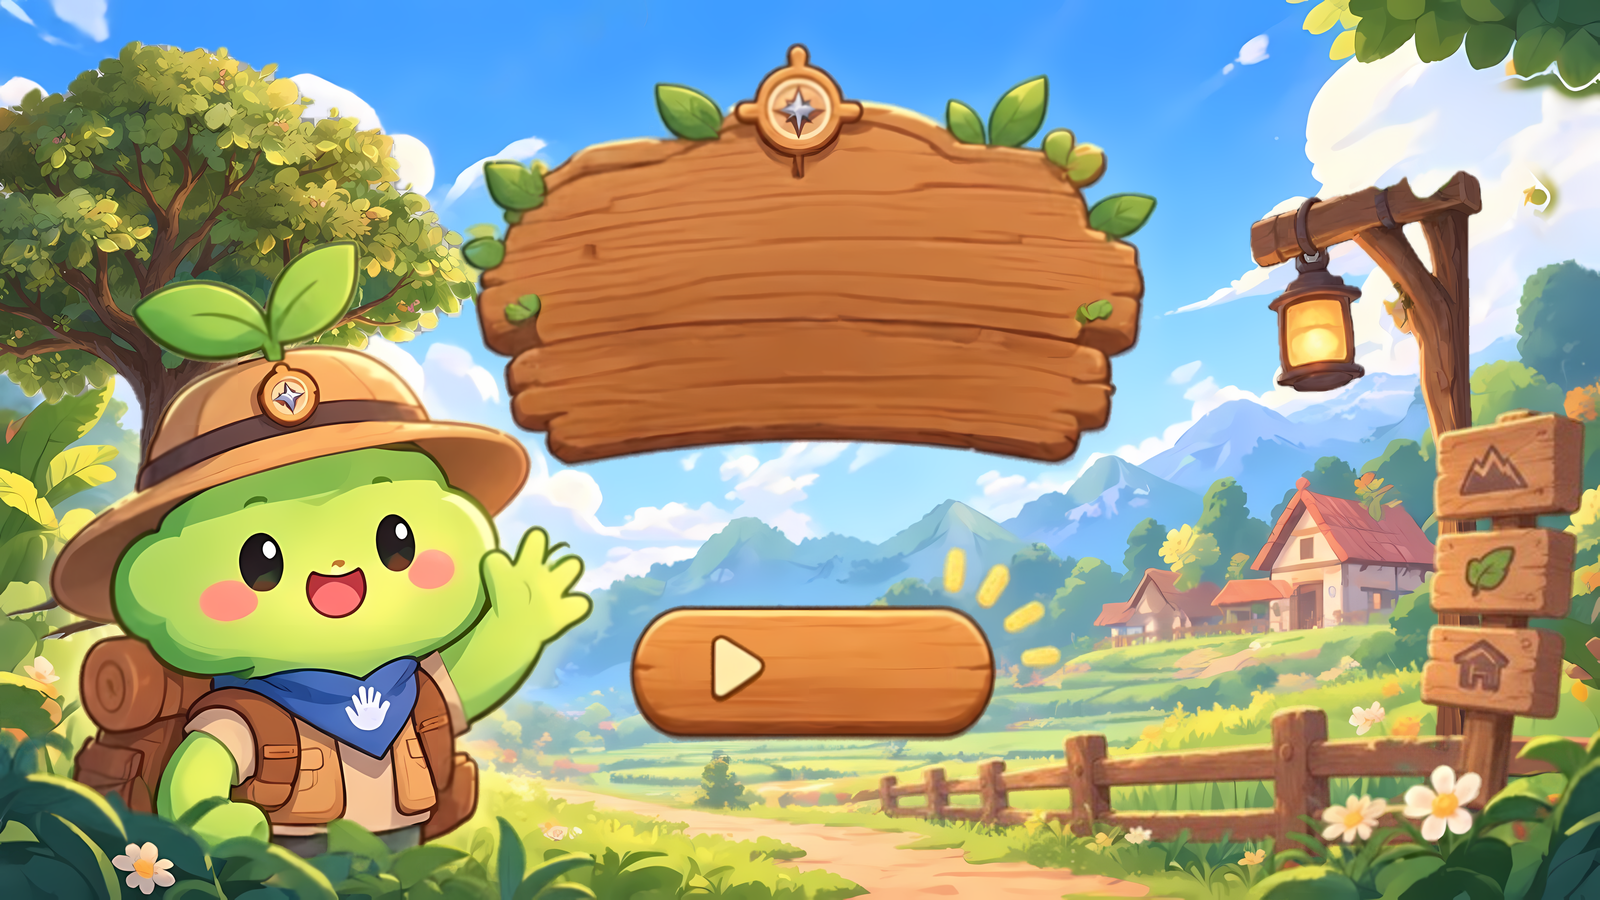
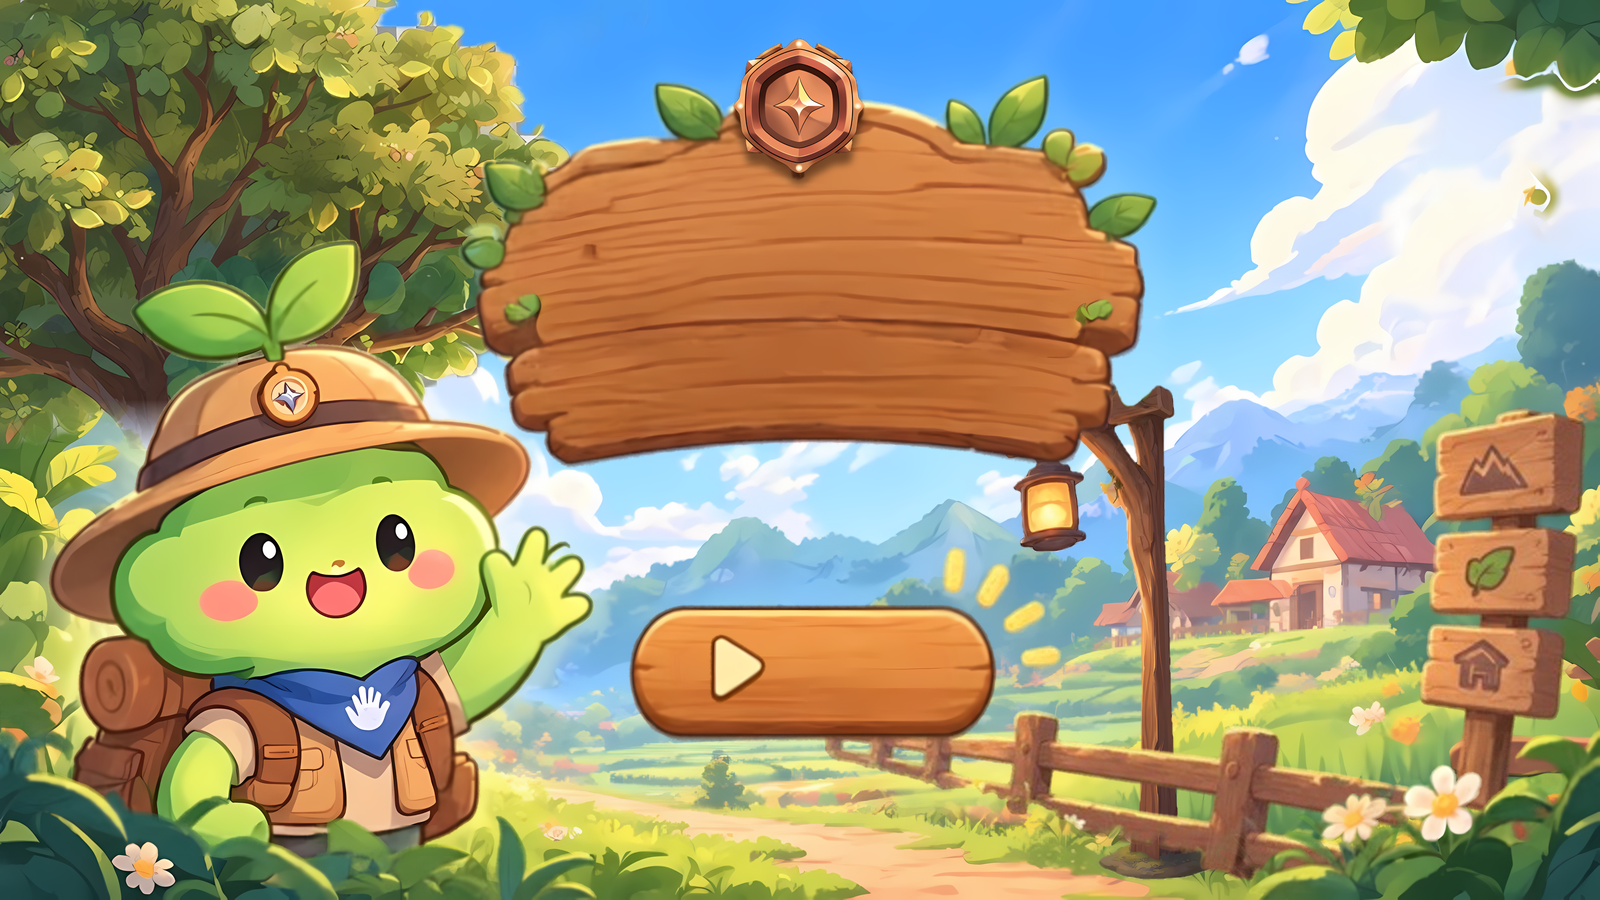
Home: overhanging branch, road-aligned fence and lamp, star badge
- Rebuild from the art session's p1-home update: canopy branch pinned to
  the top-left corner (flat-cut top+left), fence rotated along the road,
  lamp post and signpost moved, copper star badge on the title sign.
- Branch breathes by scaling from its corner so its pinned edges never
  open a gap.

diff --git a/src/scenes/Home.tsx b/src/scenes/Home.tsx
@@ -9,8 +9,9 @@ export default function Home({ onStart }: { onStart: () => void }) {
   const u = union(btn)
   return (
     <>
-      {/* whole tree sways gently from its trunk; the lamp post stands still */}
-      <Img r={L('tree-branch')} animate={{ rotate: [0, 0.8, 0] }} transition={{ duration: 6, repeat: Infinity, ease: 'easeInOut' }} style={{ transformOrigin: '50% 100%' }} />
+      {/* canopy is pinned to the top-left screen corner; it breathes by scaling from that corner (rotating would
+          open a gap along a pinned edge). The lamp post stands still. */}
+      <Img r={L('tree-branch')} animate={{ scale: [1, 1.025, 1] }} transition={{ duration: 6, repeat: Infinity, ease: 'easeInOut' }} style={{ transformOrigin: '0 0' }} />
       <Img r={L('lantern')} />
       <Img r={L('signpost')} />
       <Img r={L('fence')} />
